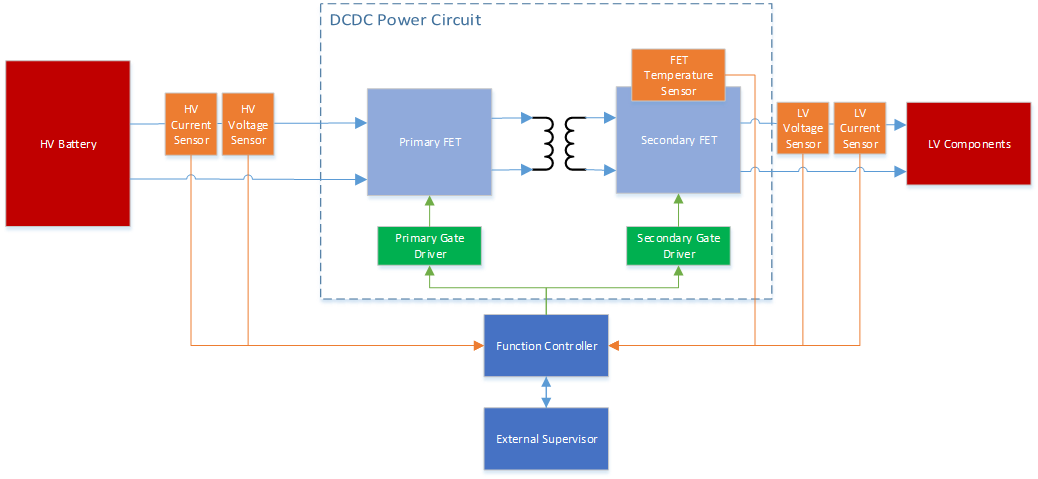
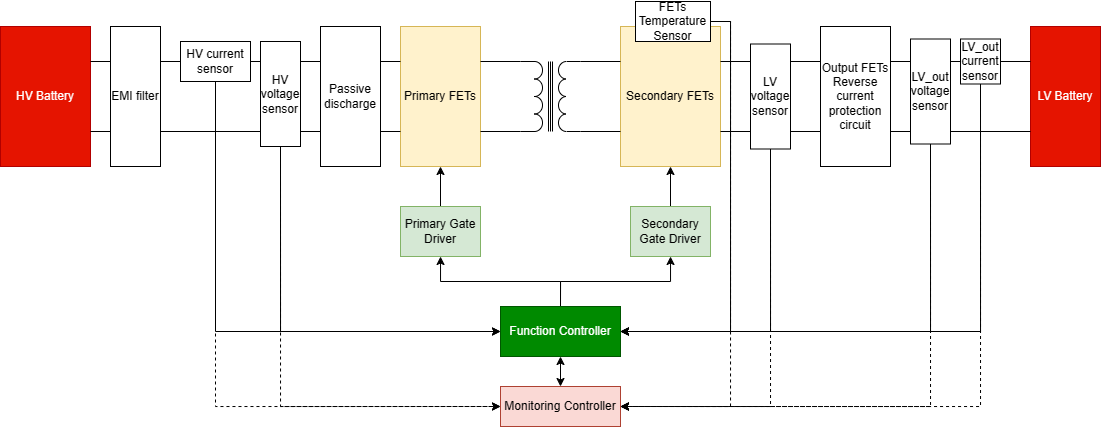
[Common] EGAS
Description:
  - update content

Affected files:
  - <files>

diff --git a/_posts/2022-03-20-EGAS-concept.md b/_posts/2022-03-20-EGAS-concept.md
@@ -51,15 +51,15 @@ A group of German automotive manufacturers([VDA](https://www.vda.de/en)) have cr
 10. The reset of fault reactions shall be determined in individual cases and shall be performed controllable. Non-continuous transitions shall be avoided.  
     <span style="color:#3ac580">&#10233; each fault/defect reaction shall has corresponding healing operation, transition from safe/degradation state to normal operation shall be continuous.</span>  
 11. Engine stop is permitted when no other controllable system reaction can be ensured.  
-    <span style="color:#3ac580">&#10233; complete shutdown of system actuator is permitted when no controllable safe state can be achieved.</span>  
+    <span style="color:#3ac580">&#10233; complete shutdown of system actuator is permitted when no controllable safe state can be achieved i.e. priority in term of measures: always try to have the system operational, then degraded/limited function and the last resort is shutdown of system</span>  
 12. The **transmitter is responsible for the content of its initiated messages** at the control unit interface. This means that e.g. external torque requests by the transmitting control unit shall be secured. The transmission path and the actuality of the messages shall be checked by the engine control system.  
     <span style="color:#3ac580">&#10233; the sender of message shall **ensure the correctness of the transmitted data**. The quality of transmitted data can be checked(to detect any kind of corruption on data either by software or physical transmission path) by applying **E2E protection on sender side** and **E2E check on receiver side**.</span>  
 13. If errors happen in combination with the subsequent single errors cause unintended system reactions, the driver should be informed. (optically or by modifying the driving behavior).  
-    <span style="color:#3ac580">&#10233; detected multiple point faults should be informed to driver via HMI cluster(limp home mode light) or put vehicle into degraded mode.</span>  
+    <span style="color:#3ac580">&#10233; detected multiple point faults should be informed to driver via HMI cluster(warning telltale, audio cue) or put vehicle into degraded mode.</span>  
 14. The monitoring of the function controller must be kept robust and simple. This includes a possible implementation with an ASIC.  
     <span style="color:#3ac580">&#10233; monitoring of function controller(i.e. logic control unit for intended function) shall be done by external hardware supervisor(i.e. System Basis Chip-SBC or Power Management IC-PMIC, usually semiconductor shall provide these kind of solution along with their MCU/SoC for strict safety system.)</span>  
 15. The effectiveness of the redundant shutoff paths shall be tested in each driving cycle.  
-    <span style="color:#3ac580">&#10233; test the shutoff path of the actuator (both main function and diagnostic function) working properly should be done for every power on phase.</span>  
+    <span style="color:#3ac580">&#10233; test the shutoff path of the actuator (both main function and diagnostic function) working properly should be done for every power on phase i.e. startup diagnostic operation</span>  
 16. Shutoff paths of the monitoring concept shall be robust if a defect power supply drifts. The power supply concept shall be monitored to avoid possible damage to components. Controllable failure reactions shall be initiated.  
     <span style="color:#3ac580">&#10233; power supply of system component shall be monitored, same as item 14, usually SBC/PMIC shall provide external hardware supervisor functionalities such as: voltage rail monitor, external watchdog, function controller's errors monitor</span>  
 17. The technical safety concept shall be implemented in accordance with the requirements of ISO26262.  
@@ -68,8 +68,8 @@ A group of German automotive manufacturers([VDA](https://www.vda.de/en)) have cr
 ### II.2 The Architecture
 
   Now we will go into system architecture design to cover above principles.With a basic system, we should have inputs(sensor data, communication data,...), processing unit(which carry out control operation and intended functions), outputs(actuators being controlled by the processing unit, causing effect on the outside environment).  
-  If the basic system only care about functioning as its intended, corresponding to the inputs, and able to keep operating consistently over a long period of time then we can say the system is reliable. But upon faulty inputs(user use it wrong, corruption of input data,...) or fault that's rooted from the internal components(part ware down, random faulty E/E part,...), system could cause a catastrophic failure and effect to the surrounding environment and users. We can say that is not a safe system, reliable might be but not safe.  
-On the other hand, Safe system beside carry out its intended function, it shall address the reaction of it when fault occur in the system. Safe system shall react properly, make potential dangerous failure become **safe failure** (i.e. system change to a state that prevent damages that could create hazards toward user).
+  If the basic system only care about functioning as its intended, corresponding to the inputs, and able to keep operating consistently over a long period of time then we can say the system is reliable. But upon faulty inputs(user use it wrong, corruption of input data, abnormal operating condition...) or fault that's rooted from the internal components(part ware down, random faulty E/E part,...), how does the system react? Could it cause a catastrophic failure and effect to the surrounding environment and users ⟹ If so we can say that is not a safe system, reliable might be but not safe.  
+On the other hand, Safe system beside carry out its intended function, it shall address the reaction of it when failure occur in the system. Safe system shall react properly, make potential dangerous failure become **`safe failure`** (i.e. system change to a state that prevent damages that could create hazards toward user).
 
   As said above, when system involve human interaction, we should not design a basic system and only consider its reliability. We should design a system to be safe.  
 Below table is list of system configuration for example base system(1 out of 1 i.e. 1 logical processing unit, 1 actuator switches(enable/disable output))
@@ -80,72 +80,88 @@ Below table is list of system configuration for example base system(1 out of 1 i
 | 1oo2              | 2     |   2   | High Safety   |
 | 1oo1D             | 1     |   2   | High Safety   |
 | 2oo2              | 2     |   2   | Availability  |
+| 1oo2D             | 2     |   4   | Safety and Availability |
 | 2oo3              | 3     |   6   | Safety and Availability |
+
+> *D: diagnostic
 
 ![alt](/assets/img/blogs/2022_03_04/EGAS-configuration_1.png)
 ![alt](/assets/img/blogs/2022_03_04/EGAS-configuration_2.png)
 ![alt](/assets/img/blogs/2022_03_04/EGAS-configuration_3.png)
 
 With different configuration of architecture, we can achieve different target in term of availability(keep system available when fault occur) and safety.  
-We can see that 1oo1D and 1oo2(serial on the output) offer the same "High Safety" characteristic, however 1oo1D configuration provide safety by increasing system diagnostic coverage and does not require a duplication of main processing component as 1oo2. So we lean toward 1oo1D configuration for its simplicity and cheaper to implement.
+We can see that 1oo1D and 1oo2(serial on the output) offer the same "High Safety" characteristic, however 1oo1D configuration provide safety by increasing system diagnostic coverage and does not require a duplication of main processing component as 1oo2. So we lean toward 1oo1D configuration for its simplicity and cheaper to implement(at least for the ASIL B and below system, for ASIL C and D 1oo2D is more referable).  
 
-For more information about other configuration type of system architecture, you can read more about them in the book **"Safety Instrumented Systems Verification: Practical Probabilistic Calculations"** by William M. Goble and Harry Cheddie
+> NOTE: Depend on the system target functionality (i.e. when system fail, the system is required to have safety reaction and keep operation=`Safety and Availability` or move to safe-state without normal function=`Safety`), the corresponding system configuration should be selected.
+
+For more information about other configuration type of system architecture, you can read more about them in the book **"Control Systems Safety Evaluation and Reliability"** by William M. Goble
 
 #### EGAS 3 level system concept
-> fail silent:  
-> fail operational:  
-> fail safe:  
+> `fail-safe`: upon the occurrence of a failure, the system shifts into safe mode. Depending on the **fail-safe response** of the safety mode, it may **either continue to be fully operational or not**.  
+> `fail-silent/fail-degraded/fail-stop`: when a failure arises, the system transitions into a safe state, operating at a **reduced capacity or ceasing to produce output** (becoming silent) to minimize potential damage or hazards. **The subsequent preventive action to address the failure should be initiated by the user.**  
+> `fail-operational`: often termed as "fault-tolerant", a system is designed such that a failure **does not halt its overall functionality**. Instead, the system reconfigures itself to **counterbalance the fault, ensuring continued correct operation**.  
 
-The following image shows the overview of EGAS concept in the specification. For the Level1, Level2, Level3 terminology, they shall be explained in more detail in next section.
+The following image shows the overview of EGAS concept in the specification.  
+`Level 1`: functional level, implement primary function, `component monitoring`, `input/output diagnostic` and `fault reaction` of the ECU.  
+`Level 2`: function monitoring level, designate to detect `defective process` of `Level 1 functional software` by monitoring input/output and operation of Level 1 functional software and trigger system reaction when fault occur.  
+`Level 3`: controller monitoring level, monitoring shall be an independent part of Level 1 `function controller`, which test the correctness of Level 1 `function controller` with Q&A operation. System reactions are triggered independently of the function controller in case of fault.  
 <figure>
   <img src="/assets/img/blogs/2022_03_04/EGAS-arch.png" alt="EGAS arch">
-  <figcaption>EGAS system configuration</figcaption>
+  <figcaption>EGAS system configuration. System level architecture design shall follow these level design scheme</figcaption>
 </figure>
-We can see that EGAS concept follow the 1oo1D system configuration, with level 2 and 3 act as diagnostic channel.
+We can see that EGAS concept follow the 1oo1D system configuration, with level 2 and 3 act as diagnostic channel of ECU primary function level 1.  
+And the red circle highlights are point of monitoring for signal paths and output actuator control point of fail-safe reaction.
 <figure>
   <img src="/assets/img/blogs/2022_03_04/EGAS-1oo1D.png" alt="1oo1D">
   <figcaption>1oo1D system configuration</figcaption>
 </figure>
 
 # III. Example System
-For our example, we shall consider a DCDC system. As said above, EGAS concept compliance with ISO26262,
+For our example, we shall consider a DCDC power converter system. As said above, EGAS concept compliance with ISO26262,
 so the analysis and design of system shall following all the step define in ISO26262.
 <figure>
   <img src="/assets/img/blogs/2022_03_04/EGAS-example_DCDC_system.png" alt="example_DCDC_system">
-  <figcaption>DCDC system</figcaption>
+  <figcaption>DCDC system block diagram</figcaption>
 </figure>
 
 ### III.1 System Definition (Item Definition)
   For system(item) definition, we should define and describe item's functionalities, dependencies on and interaction(interfaces) with user, environment(conditions) and other item in vehicle.
+<figure>
+  <img src="/assets/img/blogs/2022_03_04/EGAS-item-lv-charging-function.png" alt="Low voltage charging item">
+  <figcaption>HV to LV power conversion</figcaption>
+</figure>
+> NOTE: Usually, the Item Definition should be carried out at the vehicle level, with the target is to define a vehicle functionality (a collection of systems that realize a vehicle functionality) as above image.
 
-**Functional characteristics:**  
-Convert HV DC(from HV Batt supply) power to LV DC power to supply LV components in vehicle  
+**`Functional characteristics`:**  
+Convert High Voltage Direct Current(from HV Battery supply) power to Low Voltage Direct Current power to supply LV components in vehicle  
 
-**Structure:**  
+**`Structure`:**  
 ➢ DCDC shall take DC HV power supply from HV Battery of vehicle.  
-➢ DCDC shall output DC LV voltage, current to supply the LV system of vehicle.  
+➢ DCDC shall output DC LV voltage, current to supply the LV system of vehicle base on Vehicle command.  
 ➢ DCDC power circuit shall be controlled by DCDC MCU.  
 
-**Components:**  
-➢ **Inputs and input sensors:** Input HV Power, HV Voltage sensor, HV Current sensor, Control request signal(LV Output power setpoint) from user(e.g. VCU ECU), Internal Temperature sensor(for monitoring switching  semiconductor components, inductor,... which could produce heat during operation and need to be monitored so system can react properly)  
+**`Components`:**  
+➢ **Inputs and input sensors:** Input HV Power, HV Voltage sensor, HV Current sensor, Control request signal(LV Output power setpoint) from user(e.g. VCU, HPC), Internal Temperature sensor(for monitoring switching  semiconductor components, inductor,... which could produce heat during operation and need to be monitored so system can react properly)  
 
 ➢ **System components:**  
   ➢ 1. Power electronic circuit: DCDC Converter phase shifted full brigde circuit (primary side FETs & gate driver, secondary FETs & gate driver, isolation transformer,...)  
   ➢ 2. Logical processing unit: DCDC controller MCU for closed control loop operation.  
-  ➢ 3. Power supply unit: Provide power for the operation of other electronic components in the system.  
+  ➢ 3. Power supply unit: Provide power for the operation of other electronic components(MCU, switching FETs, gate driver) in the system.  
   ➢ 4. External hardware supervisor unit: Redundant monitoring unit, which shall responsible for monitoring system power rail, processing unit.  
 
 ➢ **Outputs and output sensors:** Output LV Power, LV Voltage sensor, LV Current sensor  
 
+**`Interfaces with other items`:** HV Battery/BMS, LV Battery, Cooling System, Vehicle Control Unit or Powertrain High Performance Computer unit.  
+
 ![alt](/assets/img/blogs/2022_03_04/EGAS-PSFB_circuit.png)
-➢ DCDC PSFB converter consists of four power electronic switches (like MOSFETs or IGBTs) that form a full bridge on the primary side of the isolation transformer and diode rectifiers or MOSFET switches for synchronous rectification (SR) on the secondary side.  
+DCDC PSFB converter consists of four power electronic switches (like MOSFETs or IGBTs) that form a full bridge on the primary side of the isolation transformer and diode rectifiers or MOSFET switches for synchronous rectification (SR) on the secondary side.  
 
 ### III.2 Hazard Analysis and Hazard Assessment (HARA)
-  For harzard analysis and risk assessment, the system functionalities are analyzed in every possible operating conditions/situations and risks of the system is determined.
-By apply guide words in combination with system's functional behavior, for example: Excessive, Insufficient, Loss, Degraded, Intermittent, Erratic, Oscillitory, Undemanded, Reversed, Late, Early, Lack,... we can list out potential failure behaviors systematically.  
-Then apply these failures with possible operating condition, we get the output result are hazardous events, which shall be evaluated with respect to severity(S), probaility of exposure(E) and controllability(C) and given with an ASIL rate.
+  For hazard analysis and risk assessment, the system functionalities are analyzed in every possible operating conditions/situations and risks of the system is determined.
+By apply `guide words(HAZOP) in combination with system's functional behavior`, for example: Excessive, Insufficient, Loss, Degraded, Intermittent, Erratic, Oscillitory, Undemanded, Reversed, Late, Early, Lack,... we can list out potential failure behaviors systematically.  
+Then apply these failures with possible operating condition, we get the output result are hazardous events, which shall be `evaluated with respect` to `severity(S)`, `probability of exposure(E)` and `controllability(C)` and given with an ASIL rate.
 
-  Finally, we shall come up with safety goals to cover for hazadous events. Safety goals shall be functional objectives of the system and top-level safety requirement of the item, in term of technical solutions, safety goals shall be specified in Function Safety Concepts(FSC) and Functional Safety Requirements(FSR) to avoid unreasonable risk of each hazardous events.
+  Finally, we shall come up with safety goals to cover for those hazardous events. `Safety goals` shall be `functional objectives` of the system and top-level safety requirement of the item, in term of technical solutions, safety goals shall be specified in Function Safety Concepts(FSC) and Functional Safety Requirements(FSR) to avoid unreasonable risk of each hazardous events.
 
   For our example, below is list of safety goals of DCDC system:  
 **SG1: Prevention of unintended thermal release**  
@@ -155,21 +171,94 @@ Then apply these failures with possible operating condition, we get the output r
 > For the hazards that cause uncontrollable and hazardous events in vehicle, they required monitoring concept to transfer the vehicle into a controllable and safe state. (EGAS_e-87, EGAS_e-88)  
 
 ### III.3 Functional Safety Concept (FSC/FSR)
+<u>To keep it short, we will only create sample analysis of the first SG1 to provide inputs for explaining EGAS concept</u>
 
-> TBD
+**SG1: Prevention of unintended thermal release**: with DCDC converter circuit, heat shall be produced by power switching FETs components and the isolation transformer during system operation.  
+⟹ FSC/FSR to cover this safety goals
+<figure>
+  <img src="/assets/img/blogs/2022_03_04/EGAS-FSC1.png" alt="FSC">
+  <figcaption>Functional safety concept to cover SG1</figcaption>
+</figure>
+> red: system might produce heat during the power conversion operation -> target of our safety goals. But in this blog we shall only address the DCDC system.  
+
+- `Fault avoidance, degradation of functionality`: temperature of the DCDC converter system shall be monitored during its operation, when its internal temperature reach \[WARNING_THRESHOLD] degrade the system performance/output, request increase cooling to vehicle thermal control system, provide warning status to vehicle HMI and audio warning cue `[FSR_001]`.
+- `Fault detection, control, transition to safe state`: temperature of the DCDC converter system shall be monitored during its operation, when its internal temperature reach \[FAILURE_THRESHOLD] trigger shutdown sequence of the system, request increase cooling to vehicle thermal control system, provide warning status to vehicle HMI and audio warning cue `[FSR_002]`.
+
+<p class="message">
+  <small>NOTE: Above is just subset of sample FSRs for the DCDC system.</small>
+  <br/>
+  <small>In actual project, the FSC/FSR shall specify the function safety concept on vehicle level, which could involve multiple system(external measures), other technologies components(i.e. mechanical). Therefore, many other FSR requirement and concept should be analyzed and defined for this single safety goal SG1.</small>
+  <br/>
+  <small>And then each ECUs shall be allocated with their corresponding FSR, which realize a facet of function of the proposed functional safety concept.</small>
+  <br/>
+  <small>Also, other attributes of the FSC/FSR is needed to be defined such as: FTTI, ASIL, ASIL decomposition, allocation, etc.</small>
+</p>
 
 ### III.4 Technical Safety Concept (TSC/TSR)
+So we have the FSC and 2 FSRs, along with our pre-defined system architecture design(*III:DCDC system block diagram) -> system level safety TSC/TSR shall be derived from these inputs and incorporated back to system architecture.  
+The technical safety concept/safety mechanism design on the system level shall follow 3 level concept as discussed in previous section.  
+<figure>
+  <img src="/assets/img/blogs/2022_03_04/EGAS-functional_safety_concept.png" alt="concept">
+  <figcaption>Break down of TSC/TSR on system level. *Functional Controller: TI C2000</figcaption>
+</figure>
+<figure>
+  <img src="/assets/img/blogs/2022_03_04/EGAS-functional_safety_reqs_allocation.png" alt="allocation">
+  <figcaption>Allocation of TSR requirements</figcaption>
+</figure>
 
-> TBD
+Now apply above concept into our target system, we have 3 main section of the safety signal path need to be monitored: sensors, processing unit, actuators.  
+<figure>
+  <img src="/assets/img/blogs/2022_03_04/EGAS-TSC1.png" alt="TSC">
+  <figcaption>Example DCDC system technical safety requirements for thermal safety</figcaption>
+</figure>
 
-![alt](/assets/img/blogs/2022_03_04/EGAS-functional_safety_concept.png)
-![alt](/assets/img/blogs/2022_03_04/EGAS-functional_safety_reqs.png)
-![alt](/assets/img/blogs/2022_03_04/EGAS-functional_safety_reqs_allocation.png)
+<b style="color:#009ddc;font-size:1.25rem">Section 1</b>: for the safety related input sensors, safety mechanisms can be applied such as:  
+- sensor redundancy(with different curve characteristic, separated physical signal path, power supply to eliminate common cause fault) `[Level1]`
+- employ/design sensor device/circuit with diagnostic capability(check shorted, open). `[Level1]`
+
+<b style="color:#009ddc;font-size:1.25rem">Section 2</b>: for the output actuator, safety mechanisms can be applied such as:
+- monitor operation status of the actuators. `[Level1]`
+- employ/design feedback of output actuator control signal or actuator with diagnostic capability for self-test purposes `[Level1]`
+
+<b style="color:#009ddc;font-size:1.25rem">Section 3</b>: for the processing unit,  
+- perform plausibility check, cross-check, range-check on input sensor signals. `[Level1], [Level2]`
+- apply signal protection(E2E profile) to safety related digital communication signals (warning status, control signals send/receive from other components). `[Level1], [Level2]`
+
+⟹ signal inputs for primary functions, monitored by Level2 as well
+
+- perform diagnostic self-test on actuators in startup(.e.g shutoff path test). `[Level2]`
+- base on validated input sensors, actuators feedback, and primary function control output, perform safety monitoring: operating status, `output control signal` -> to `ensure Level 1 system's primary function` operates in permissible state (i.e. allowed operation threshold vs actual/current operation output or state). `[Level2]`
+- program flow monitoring of Level2 safety modules, watchdog management(external hardware watchdog or functional watchdog Q&A). `[Level3]`
+- Monitoring Controller(physical independent monitoring module) perform monitor(Q&A watchdog, statuses) Functional Controller operating status. `[Level3]`
+- perform diagnostic self-test mechanism(Power On Self Test-POST) of Functional Controller semiconductor in startup (diagnostic coverage) i.e. RAM, ROM, CPU BIST, peripheral test(ADC, CLK, GPIO,..),etc. `[Level3]`
+
+<p class="message">
+  <small>
+  *NOTE: In actual project, there other factor should be considered with Level 2 monitoring such as: <br/>
+  - monitor fault reaction of Level 1.<br/>
+  - configuration, calibration parameter must be validated before use.<br/>
+  - safety relevant data exchange between the processor cores(multiple cores hw) shall be protected against data content falsification. <br/>
+  - ...
+  </small>
+</p>
+
+<figure>
+  <img src="/assets/img/blogs/2022_03_04/EGAS-TSC2.png" alt="TSC">
+  <figcaption>Example DCDC system technical safety concept for thermal safety</figcaption>
+</figure>
+
 
 ### III.5 System Reactions (Fault Handling - Safe State)
+As stated by previous guideline items: for fault handling - safe state, staged error reactions shall be strived.  
+⟹ every failures shall be mapped with their corresponding reaction, reaction should try to isolate/resolve the fault locally(prevent fault propagation). If fault has direct impact on primary functionality, last resort actions such as shutoff actuators, reset whole system shall be used.
 
-> TBD
+Example for Level 3 fault reaction as below:
+![alt](/assets/img/blogs/2022_03_04/EGAS-fault_reaction1.png)
+![alt](/assets/img/blogs/2022_03_04/EGAS-fault_reaction2.png)
 
 # IV. Conclusion
 
-> TBD
+Generally, the EGAS concept adheres to the 1oo1D system configuration, which involves monitoring the primary function and diagnosing the safety signal path. Any identified faults are addressed appropriately through a staged error reaction, causing the system to transition into a `fail-silent, fail-degraded, or fail-stop` state..  
+⟹ a good design concept to be adopted for ASIL B (and lower safety integrity system).  
+
+As the automotive world evolves with intricate features like ADAS and autonomous driving, the demand for `fail-operational` systems is also on the rise. Therefore, it would be beneficial to explore safety architecture designs from other fields, such as avionics, to comprehend, adapt, and customize existing technical solutions and design principles and apply it to our automotive system.

diff --git a/_posts/2022-10-12-CAPL-script.md b/_posts/2022-10-12-CAPL-script.md
@@ -28,10 +28,10 @@ last_modified_at: 2022-12-28
 
 Some characteristics of CAPL script are:
 - C like syntax.
-- Event-driven (individual functions(evaluate, set signal values, send messages) that react to received messages, expired timers, change of a signals or in the environment).
+- Event-driven (individual functions(evaluate, set signal values, send messages) that react to received messages, expired timers event, change of a signals or in the environment).
 - CAPL program can be developed(.can, .cin) and compiled(.cbf) using Vector tool CAPL Browser(IDE).
 - Direct access to messages, signals, system variables and diagnostic parameters(via database file such as DBC CDD because CAPL Browser is integrated with CANoe,CANalyzer tool chain).
-- Can link to user dll(e.g. diagnostic operation: encryption API, key, seed value).
+- Can link to user dll(e.g. diagnostic operation: encryption API, security key/seed calculation).
 > .can: is execution code and compiled  
 > .cin: is for common/library function, and shall be included by .can  
 
@@ -153,6 +153,7 @@ For a test node, main section of CAPL test script are:
 
 ### I.2 `variable`
 - CAPL program variables can be declared in each function as local variable or under `variables` section as global variables.
+> NOTE: CAPL only allow declare local variable at the beginning portion of the function.
 {% highlight C %}
 variables 
 {
@@ -210,8 +211,8 @@ message 0x701 msg;
 }
 {% endhighlight %}
 ![variable object](/assets/img/blogs/2022_10_12/variable.png)
-> - Struct, array, associative field, object, when used as function parameter will be passed as reference by default.
-> - Other primitive data type has to used `&` to mark that it shall be passed as reference. E.g. `void Function(byte& ref); Function(var);`
+> - Struct, array, associative field, object, when used as function parameter will be `passed as reference` by default.
+> - Other primitive data type has to used `&` to mark that it shall be `passed as reference`. E.g. `void Function(byte& ref); Function(var);`
 
 - `sysvar` or `System Variables` are defined under tab Environment/System Variables, it can be accessed everywhere in CANoe configuration. We define **user sysvar to shared, route data around testing environment between test nodes, simulated nodes, measurement nodes, CANoe panel**. CANoe also provide sysvar so test nodes can interact with other component in a testing environment such as VT System.
 ![syvar2](/assets/img/blogs/2022_10_12/sysvar2.png)

diff --git a/_posts/2021-12-17-unified-diagnostic-protocol-overview.md b/_posts/2021-12-17-unified-diagnostic-protocol-overview.md
@@ -315,7 +315,8 @@ DID is used for various diagnostic use-cases such as:
 - IO Control 
 - ECU Configuration, Variant Coding 
 - Freeze Frame / Snapshot Data 
-- … 
+- …
+
 Normally some Data Identifier(DID)s shall be configured as related to specific DTC and a snapshot of their value is stored when DTC is logged.  
 
 
@@ -365,14 +366,15 @@ Coding DIDs is used to toggle on/off specific functionalities of the ECU to adap
 </figure>
 
 Calibration DIDs is used to tuning the ECU operation, e.g. when adapting its configuration to surrounding conditions such specific operating environment, other vehicle equipments(sensor, actuator characteristics),...
-The write Calibration DIDs sequence could be similar to variant coding one.
+The write Calibration DIDs sequence could be similar to above variant coding one.
 
 ## 10. Diagnostic function development
 When it comes to development the diagnostic functionalities of an actual ECU project, how it should be carried-out? You can refer to below diagram.  
 This just an example, different project with different tool-chains might be slightly variate. But still you have to has:
 - OEM diagnostic specification, project dependent diagnostic specification ⟹ requirement and is realized in Open Diagnostic eXchange(ODX) format database file such as .cdd, .pdx, .odx
-- Development tool to view/modify ODX file or possibly parsing the file content into corresponding configuration data ⟹ configuration of classic AUTOSAR module like DEM, DCM, FIM 
-- Diagnostic testing tool to parse the ODX file to create validation environment manually or automation ⟹ ODX file is used as reference data for V&V operation
+- Development tool to view/modify ODX file or possibly parsing the file content into corresponding configuration data ⟹ configuration of classic AUTOSAR module like DEM, DCM, FIM.
+- Design and implementation of diagnostic application (SWCs).
+- Diagnostic testing tool to parse the ODX file to create validation environment manually or automation ⟹ ODX file is used as reference data for V&V operation.
 <figure>
   <img src="/assets/img/blogs/2021_12_17/17_diagnostic_development.png" alt="diagnostic development">
   <figcaption>Example of diagnostic function development with Vector tool-chains</figcaption>

diff --git a/_pages/about.md b/_pages/about.md
@@ -12,14 +12,14 @@ title: About
 2. [Delta Robot](https://link)  
 
 **Profession Experiences:**
-1. AUTOSAR MCAL Software Engineer: MCAL development for Renesas RCAR Gen3 SOC  
-2. AUTOSAR ASW Software Developer: AUTOSAR SWC development with matlab-targetlink for Commercial Vehicle ECU - Signal Actuation Module(SAM ECU).  
-3. Senior Embedded Software Engineer: AUTOSAR/Safety sw development for Passenger EV Power Electronic ECU(OnBoard Charger, DCDC Converter & Power Distribution Unit) and EV AC&DC Charging Station.  
-4. Senior Embedded Software Engineer: AUTOSAR/Safety/CyberSecurity sw development for Digital Matrix Light, Audio Amplifier, OBC/DCDC, MHU ECU.
+1. Senior Embedded Software Engineer: AUTOSAR/Safety/CyberSecurity SW development for Digital Matrix Light, Audio Amplifier, OBC/DCDC, MHU ECU.
+2. Senior Embedded Software Engineer: AUTOSAR/Safety SW development for Passenger EV Power Electronic ECU(OnBoard Charger, DCDC Converter & Power Distribution Unit) and EV AC&DC Charging Station.  
+3. AUTOSAR ASW Software Developer: AUTOSAR SWC development with matlab-targetlink for Commercial Vehicle ECU - Signal Actuation Module(SAM ECU).  
+4. AUTOSAR MCAL Software Engineer: MCAL development for Renesas RCAR Gen3 SOC  
 
 **Projects:**
-1. [STM32F407 AUTOSAR 4.4.0 MCAL](https://github.com/)
-2. [ISO15118 compliance test suite](https://github.com/)
+1. [STM32F407 AUTOSAR 4.4.0 MCAL](https://github.com/nvdungx/STM32F4_MCAL)
+2. [ISO15118 compliance test suite](https://github.com/nvdungx/ISO15118_4_TestEnv)
 3. [OCPP compliance test suite](https://github.com/)
 
 **Contact info:** [mail](mailto:nvdung694@gmail.com) - [linkedin](https://www.linkedin.com/in/dugx9/)  

diff --git a/_posts/2022-10-07-install-wsl-and-using-it-with-proxy.md b/_posts/2022-10-07-install-wsl-and-using-it-with-proxy.md
@@ -40,12 +40,13 @@ W: Some index files failed to download. They have been ignored, or old ones used
 to fix above issues, following below step.  
 
 1. `sudo vim ~/.bashrc`  
-  Add following at the end of file:  
-3. `export http_proxy=http://<address>:<port>`  
-4. `sudo visudo`  
-  Add following line after line "Defaults env_reset"  
-5. `Defaults        env_keep = "http_proxy"`  
-  Things should be able to run smoothly now.  
+Add following at the end of file:  
+2. `export http_proxy=http://<address>:<port>`  
+3. `sudo visudo`  
+Add following line after line "Defaults env_reset"  
+4. `Defaults        env_keep = "http_proxy"`  
+
+Things should be able to run smoothly now.  
 {% highlight bash %}
 user@usergrp:~$ sudo apt update
 Get:1 http://security.ubuntu.com/ubuntu focal-security InRelease [114 kB]
